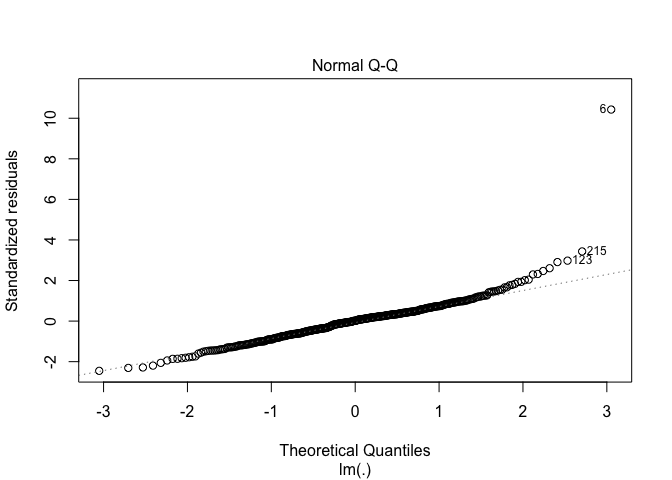
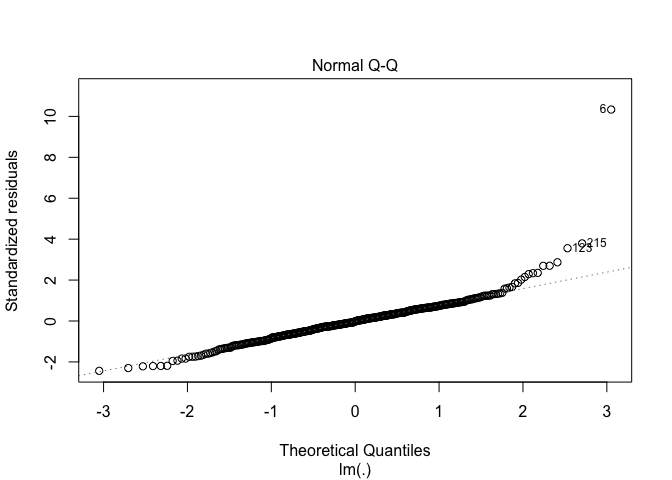
made minor changes to how the cdi df is cleaned to incorporate the first variable distribution plot

diff --git a/p8130_final_project_BG_JA.md b/p8130_final_project_BG_JA.md
@@ -16,7 +16,7 @@ get_cor_by_var <- function(v_name) {
   cdi %>%
   map(~cor(as.numeric(.x), pull(cdi, v_name), method = "pearson")) %>%
   as_tibble() %>%
-  pivot_longer(id:log_pop_density,
+  pivot_longer(CRM_1000:log_docbed,
                names_to = "variables",
                values_to = "r") %>%
   mutate(
@@ -106,15 +106,25 @@ rate per 1,000 people in the county population. We will name this column
 ``` r
 cdi <- read_csv(here::here("data", "cdi.csv")) %>%
   mutate(CRM_1000 = (crimes/pop) * 1000,
+         state = as.factor(state),
          region = as.factor(region),
          region = fct_recode(region, "northeast" = "1", "north_central" = "2",
                              "south" = "3", "west" = "4"),
          pop_density = pop/area,
+         docbed = docs/beds,
          log_pop18 = log(pop18),
+         log_pop65 = log(pop65),
+         log_hsgrad = log(hsgrad),
+         log_bagrad = log(bagrad),
          log_poverty = log(poverty),
+         log_unemp = log(unemp),
          log_totalinc = log(totalinc),
          log_pcincome = log(pcincome),
-         log_pop_density = log(pop_density))
+         log_pop_density = log(pop_density),
+         log_docbed = log(docbed)
+         ) %>% 
+  dplyr::select(-id, -cty, -docs, -beds, -crimes, -pop, -area) %>% 
+  dplyr::select(CRM_1000, state, region, everything())
 ```
 
 Let’s calculate the Pearson’s correlation coefficient between every
@@ -127,29 +137,105 @@ get_cor_by_var("CRM_1000")
 | variables         |         r | sign |
 |:------------------|----------:|:-----|
 | CRM\_1000         | 1.0000000 | \+   |
-| crimes            | 0.5300430 | \+   |
 | log\_poverty      | 0.4823623 | \+   |
 | pop\_density      | 0.4804285 | \+   |
 | poverty           | 0.4718442 | \+   |
-| beds              | 0.3915167 | \+   |
-| id                | 0.3756659 | \-   |
 | region            | 0.3427584 | \+   |
 | log\_pop\_density | 0.3367361 | \+   |
 | log\_totalinc     | 0.3273042 | \+   |
-| docs              | 0.3075291 | \+   |
-| pop               | 0.2800992 | \+   |
 | totalinc          | 0.2281557 | \+   |
 | hsgrad            | 0.2264129 | \-   |
+| log\_hsgrad       | 0.2260266 | \-   |
 | log\_pop18        | 0.2039079 | \+   |
 | pop18             | 0.1905688 | \+   |
+| state             | 0.0881015 | \-   |
 | pcincome          | 0.0802442 | \-   |
 | log\_pcincome     | 0.0695287 | \-   |
 | pop65             | 0.0665333 | \-   |
-| area              | 0.0429484 | \+   |
+| log\_bagrad       | 0.0632119 | \+   |
+| log\_pop65        | 0.0543376 | \-   |
+| docbed            | 0.0432661 | \-   |
 | unemp             | 0.0418466 | \+   |
 | bagrad            | 0.0383046 | \+   |
-| cty               |        NA | NA   |
-| state             |        NA | NA   |
+| log\_unemp        | 0.0362602 | \+   |
+| log\_docbed       | 0.0244917 | \+   |
+
+``` r
+cdi_long = 
+  cdi %>% 
+    pivot_longer(
+      pop18:log_docbed,
+      names_to = "var",
+      values_to = "val"
+    ) %>% 
+  mutate(
+    trans = case_when(grepl('log_', var) ~ 'log',
+                     TRUE ~ 'ori'
+    ),
+    trans = factor(trans, levels = c("ori", "log"), labels =c("Untransformed", "log Transformed")),
+    var = str_replace(var, "log_", ""),
+    var = factor(var, levels = c("pop18", "pop65", "hsgrad", "bagrad", "poverty", "unemp", "pcincome", "totalinc", "pop_density", "docbed"))
+  )
+
+dens_plot_gen = function(v, b){
+  
+  if(!b){
+    cdi_long %>% 
+      filter(var == v) %>% 
+      ggplot(aes(x = val)) +
+      geom_boxplot() +
+      theme_minimal() +
+      theme(
+        axis.title.y=element_blank(),
+        axis.title.x=element_blank(),
+        axis.text.y=element_blank(),
+        axis.text.x=element_blank()
+      ) +
+      facet_grid(var ~ trans, switch = "y", scales = "free") +
+      theme(
+        strip.text.y.left = element_text(angle = 0),
+        strip.text.x = element_blank()
+      )
+  }else{
+    cdi_long %>% 
+      filter(var == v) %>% 
+      ggplot(aes(x = val)) +
+      geom_boxplot() +
+      theme_minimal() +
+      theme(
+        axis.title.y=element_blank(),
+        axis.title.x=element_blank(),
+        axis.text.y=element_blank(),
+        axis.text.x=element_blank()
+      ) +
+      facet_grid(var ~ trans, switch = "y", scales = "free") +
+      theme(
+        strip.text.y.left = element_text(angle = 0)
+      )
+  }
+}
+
+var_list = c("pop18", "pop65", "hsgrad", "bagrad", "poverty", "unemp", "pcincome", "totalinc", "pop_density", "docbed")
+
+plot_1 = dens_plot_gen(var_list[1], T)
+plot_2 = dens_plot_gen(var_list[2], F)
+plot_3 = dens_plot_gen(var_list[3], F)
+plot_4 = dens_plot_gen(var_list[4], F)
+plot_5 = dens_plot_gen(var_list[5], F)
+plot_6 = dens_plot_gen(var_list[6], F)
+plot_7 = dens_plot_gen(var_list[7], F)
+plot_8 = dens_plot_gen(var_list[8], F)
+plot_9 = dens_plot_gen(var_list[9], F)
+plot_10 = dens_plot_gen(var_list[10], F)
+
+patch_1 = plot_1 / plot_2 / plot_3 / plot_4 / plot_5 / plot_6 / plot_7 / plot_8 / plot_9 / plot_10
+
+patch_1 + 
+  plot_annotation(title = 'Untransformed and log Transformed Variable Distributions in the CDI Dataset',
+                  theme = theme(plot.title = element_text(size = 14)))
+```
+
+![](p8130_final_project_BG_JA_files/figure-gfm/unnamed-chunk-4-1.png)<!-- -->
 
 Now, let’s define models of interest.
 
@@ -200,7 +286,7 @@ map(model_list, get_cv_rmse) %>%
   geom_violin() + labs(x = "Model", y = "RMSE")
 ```
 
-![](p8130_final_project_BG_JA_files/figure-gfm/unnamed-chunk-6-1.png)<!-- -->
+![](p8130_final_project_BG_JA_files/figure-gfm/unnamed-chunk-7-1.png)<!-- -->
 
 Further, we can plot the model residuals as a function of the model
 predictions.
@@ -209,19 +295,19 @@ predictions.
 plot_model_residuals(model_A)
 ```
 
-![](p8130_final_project_BG_JA_files/figure-gfm/unnamed-chunk-7-1.png)<!-- -->
+![](p8130_final_project_BG_JA_files/figure-gfm/unnamed-chunk-8-1.png)<!-- -->
 
 ``` r
 plot_model_residuals(model_B)
 ```
 
-![](p8130_final_project_BG_JA_files/figure-gfm/unnamed-chunk-8-1.png)<!-- -->
+![](p8130_final_project_BG_JA_files/figure-gfm/unnamed-chunk-9-1.png)<!-- -->
 
 ``` r
 plot_model_residuals(model_C)
 ```
 
-![](p8130_final_project_BG_JA_files/figure-gfm/unnamed-chunk-9-1.png)<!-- -->
+![](p8130_final_project_BG_JA_files/figure-gfm/unnamed-chunk-10-1.png)<!-- -->
 
 Q-Q plots
 
@@ -229,19 +315,19 @@ Q-Q plots
 plot_mod_qq(model_A)
 ```
 
-![](p8130_final_project_BG_JA_files/figure-gfm/unnamed-chunk-10-1.png)<!-- -->
+![](p8130_final_project_BG_JA_files/figure-gfm/unnamed-chunk-11-1.png)<!-- -->
 
 ``` r
 plot_mod_qq(model_B)
 ```
 
-![](p8130_final_project_BG_JA_files/figure-gfm/unnamed-chunk-11-1.png)<!-- -->
+![](p8130_final_project_BG_JA_files/figure-gfm/unnamed-chunk-12-1.png)<!-- -->
 
 ``` r
 plot_mod_qq(model_C)
 ```
 
-![](p8130_final_project_BG_JA_files/figure-gfm/unnamed-chunk-12-1.png)<!-- -->
+![](p8130_final_project_BG_JA_files/figure-gfm/unnamed-chunk-13-1.png)<!-- -->
 
 Leverage plots
 
@@ -249,19 +335,19 @@ Leverage plots
 plot_mod_leverage(model_A)
 ```
 
-![](p8130_final_project_BG_JA_files/figure-gfm/unnamed-chunk-13-1.png)<!-- -->
+![](p8130_final_project_BG_JA_files/figure-gfm/unnamed-chunk-14-1.png)<!-- -->
 
 ``` r
 plot_mod_leverage(model_B)
 ```
 
-![](p8130_final_project_BG_JA_files/figure-gfm/unnamed-chunk-14-1.png)<!-- -->
+![](p8130_final_project_BG_JA_files/figure-gfm/unnamed-chunk-15-1.png)<!-- -->
 
 ``` r
 plot_mod_leverage(model_C)
 ```
 
-![](p8130_final_project_BG_JA_files/figure-gfm/unnamed-chunk-15-1.png)<!-- -->
+![](p8130_final_project_BG_JA_files/figure-gfm/unnamed-chunk-16-1.png)<!-- -->
 
 No wonder we had those weird distributions of RMSE in the Monte Carlo
 simulations - we had a serious outlier. Let’s remove it and refit and
@@ -297,64 +383,64 @@ map(model_list, get_cv_rmse, data = cdi_2) %>%
   geom_violin() + labs(x = "Model", y = "RMSE")
 ```
 
-![](p8130_final_project_BG_JA_files/figure-gfm/unnamed-chunk-16-1.png)<!-- -->
+![](p8130_final_project_BG_JA_files/figure-gfm/unnamed-chunk-17-1.png)<!-- -->
 
 ``` r
 #Residual plots
 plot_model_residuals(model_A, data = cdi_2)
 ```
 
-![](p8130_final_project_BG_JA_files/figure-gfm/unnamed-chunk-16-2.png)<!-- -->
+![](p8130_final_project_BG_JA_files/figure-gfm/unnamed-chunk-17-2.png)<!-- -->
 
 ``` r
 plot_model_residuals(model_B, data = cdi_2)
 ```
 
-![](p8130_final_project_BG_JA_files/figure-gfm/unnamed-chunk-16-3.png)<!-- -->
+![](p8130_final_project_BG_JA_files/figure-gfm/unnamed-chunk-17-3.png)<!-- -->
 
 ``` r
 plot_model_residuals(model_C, data = cdi_2)
 ```
 
-![](p8130_final_project_BG_JA_files/figure-gfm/unnamed-chunk-16-4.png)<!-- -->
+![](p8130_final_project_BG_JA_files/figure-gfm/unnamed-chunk-17-4.png)<!-- -->
 
 ``` r
 #Q-Q plots
 plot_mod_qq(model_A, data = cdi_2)
 ```
 
-![](p8130_final_project_BG_JA_files/figure-gfm/unnamed-chunk-16-5.png)<!-- -->
+![](p8130_final_project_BG_JA_files/figure-gfm/unnamed-chunk-17-5.png)<!-- -->
 
 ``` r
 plot_mod_qq(model_B, data = cdi_2)
 ```
 
-![](p8130_final_project_BG_JA_files/figure-gfm/unnamed-chunk-16-6.png)<!-- -->
+![](p8130_final_project_BG_JA_files/figure-gfm/unnamed-chunk-17-6.png)<!-- -->
 
 ``` r
 plot_mod_qq(model_C, data = cdi_2)
 ```
 
-![](p8130_final_project_BG_JA_files/figure-gfm/unnamed-chunk-16-7.png)<!-- -->
+![](p8130_final_project_BG_JA_files/figure-gfm/unnamed-chunk-17-7.png)<!-- -->
 
 ``` r
 #Leverage plots
 plot_mod_leverage(model_A, data = cdi_2)
 ```
 
-![](p8130_final_project_BG_JA_files/figure-gfm/unnamed-chunk-16-8.png)<!-- -->
+![](p8130_final_project_BG_JA_files/figure-gfm/unnamed-chunk-17-8.png)<!-- -->
 
 ``` r
 plot_mod_leverage(model_B, data = cdi_2)
 ```
 
-![](p8130_final_project_BG_JA_files/figure-gfm/unnamed-chunk-16-9.png)<!-- -->
+![](p8130_final_project_BG_JA_files/figure-gfm/unnamed-chunk-17-9.png)<!-- -->
 
 ``` r
 plot_mod_leverage(model_C, data = cdi_2)
 ```
 
-![](p8130_final_project_BG_JA_files/figure-gfm/unnamed-chunk-16-10.png)<!-- -->
+![](p8130_final_project_BG_JA_files/figure-gfm/unnamed-chunk-17-10.png)<!-- -->
 
 For reasons listed in the paper, we will use model C. Let’s summarize
 the model.
